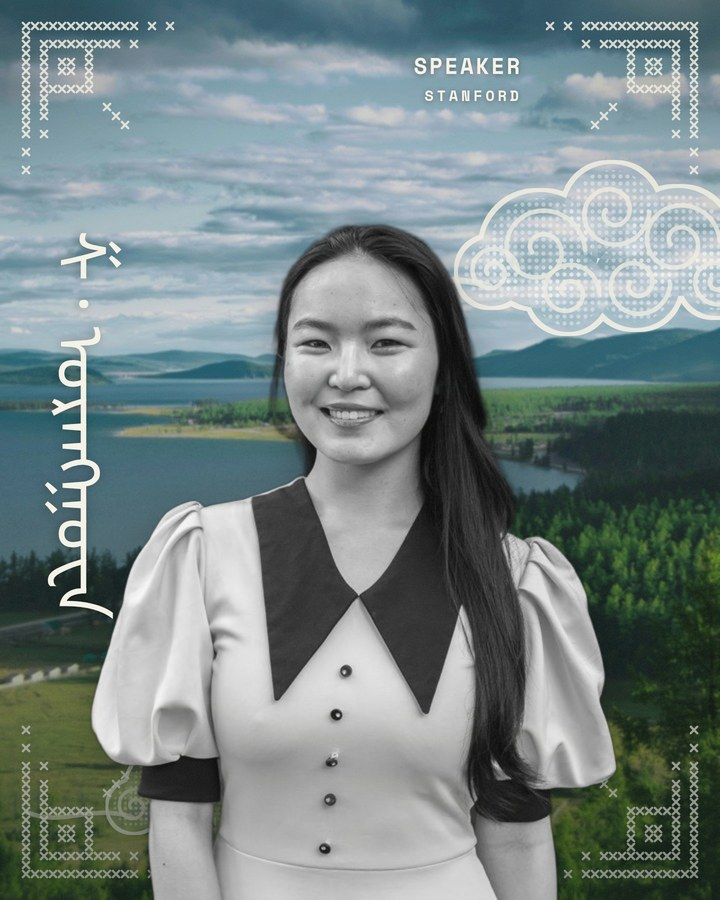
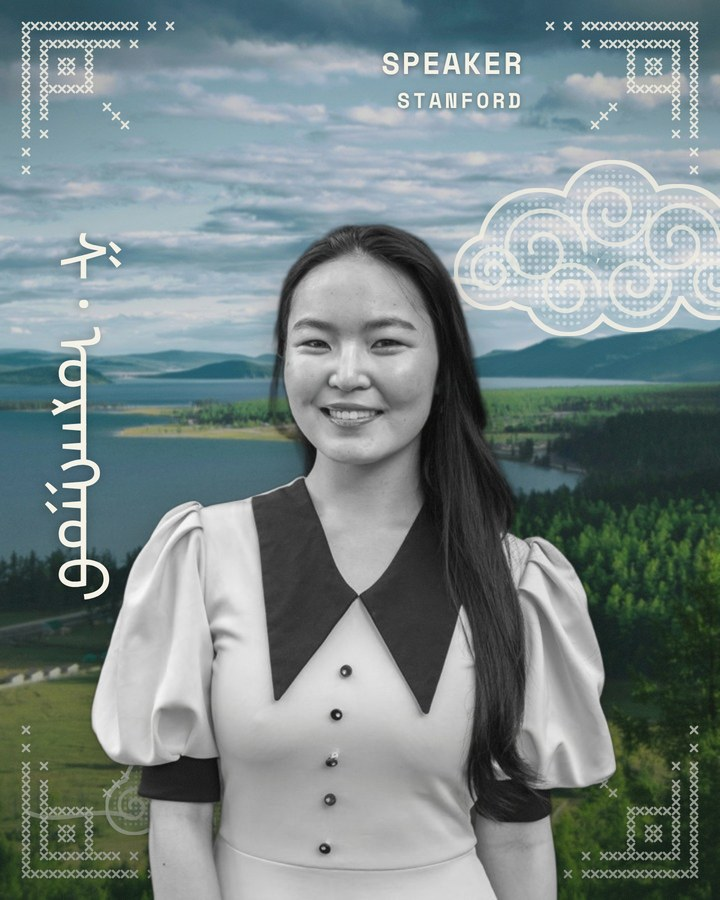
Fix Mongolian-script spellings (Bayarmangnai, Bayarm-a, Garudi, Urangoo); uniform role labels
Claude-Session: https://claude.ai/code/session_015w2YeaPuoH2UidzmstFP66

Changed region(s): [[0.5194, 0.0311, 0.7333, 0.1244], [0.0611, 0.6222, 0.1528, 0.6844]]

diff --git a/index.html b/index.html
@@ -278,7 +278,7 @@
       <div class="marquee speakers-row" data-reveal>
         <div class="speaker">
           <div class="speaker__photo">
-            <img src="assets/img/speaker-urangoo.jpg?v=2" alt="Urangoo Shinedelger" loading="lazy">
+            <img src="assets/img/speaker-urangoo.jpg?v=4" alt="Urangoo Shinedelger" loading="lazy">
             <span class="speaker__school"><img src="assets/img/schools/stanford.svg" alt="Stanford University"></span>
           </div>
           <p class="speaker__name">Urangoo Shinedelger</p>
@@ -286,7 +286,7 @@
         </div>
         <div class="speaker">
           <div class="speaker__photo">
-            <img src="assets/img/speaker-garid.jpg?v=2" alt="Garid Mendbayar" loading="lazy">
+            <img src="assets/img/speaker-garid.jpg?v=4" alt="Garid Mendbayar" loading="lazy">
             <span class="speaker__school"><img src="assets/img/schools/vanderbilt.png?v=3" alt="Vanderbilt University"></span>
           </div>
           <p class="speaker__name">Garid Mendbayar</p>
@@ -294,7 +294,7 @@
         </div>
         <div class="speaker">
           <div class="speaker__photo">
-            <img src="assets/img/speaker-bayarmaa.jpg?v=2" alt="Bayarmaa Altankhishig" loading="lazy">
+            <img src="assets/img/speaker-bayarmaa.jpg?v=4" alt="Bayarmaa Altankhishig" loading="lazy">
             <span class="speaker__school"><img src="assets/img/schools/bocconi.png" alt="Bocconi University"></span>
           </div>
           <p class="speaker__name">Bayarmaa Altankhishig</p>
@@ -302,7 +302,7 @@
         </div>
         <div class="speaker">
           <div class="speaker__photo">
-            <img src="assets/img/speaker-anar.jpg?v=3" alt="Anar Battogtokh" loading="lazy">
+            <img src="assets/img/speaker-anar.jpg?v=4" alt="Anar Battogtokh" loading="lazy">
             <span class="speaker__school"><img src="assets/img/schools/cornell.svg" alt="Cornell University"></span>
           </div>
           <p class="speaker__name">Anar Battogtokh</p>
@@ -310,7 +310,7 @@
         </div>
         <div class="speaker">
           <div class="speaker__photo">
-            <img src="assets/img/speaker-tsolmon.jpg?v=3" alt="Tsolmon Baasantsogt" loading="lazy">
+            <img src="assets/img/speaker-tsolmon.jpg?v=4" alt="Tsolmon Baasantsogt" loading="lazy">
             <span class="speaker__school"><img src="assets/img/schools/yonsei.png?v=2" alt="Yonsei University"></span>
           </div>
           <p class="speaker__name">Tsolmon Baasantsogt</p>
@@ -318,7 +318,7 @@
         </div>
         <div class="speaker">
           <div class="speaker__photo">
-            <img src="assets/img/speaker-tulga.jpg?v=2" alt="Tulga Bayarnyam" loading="lazy">
+            <img src="assets/img/speaker-tulga.jpg?v=4" alt="Tulga Bayarnyam" loading="lazy">
             <span class="speaker__school"><img src="assets/img/schools/skku.png?v=2" alt="Sungkyunkwan University"></span>
           </div>
           <p class="speaker__name">Tulga Bayarnyam</p>
@@ -326,7 +326,7 @@
         </div>
         <div class="speaker">
           <div class="speaker__photo">
-            <img src="assets/img/speaker-anu.jpg?v=2" alt="Anu Otgonjargal" loading="lazy">
+            <img src="assets/img/speaker-anu.jpg?v=4" alt="Anu Otgonjargal" loading="lazy">
             <span class="speaker__school speaker__school--fill"><img src="assets/img/schools/absolute.png" alt="Absolute School of English"></span>
           </div>
           <p class="speaker__name">Anu Otgonjargal</p>
@@ -342,7 +342,7 @@
       </div>
       <div class="marquee" data-reveal>
         <a class="member" href="member.html?m=bayarmagnai">
-          <div class="member__photo"><img src="assets/img/team-bayarmagnai.jpg?v=6" alt="Bayarmagnai Usukhgerel, Founder of GRIT" loading="lazy"></div>
+          <div class="member__photo"><img src="assets/img/team-bayarmagnai.jpg?v=7" alt="Bayarmagnai Usukhgerel, Founder of GRIT" loading="lazy"></div>
           <p class="member__name">Bayarmagnai Usukhgerel</p>
           <p class="member__school">Founder of GRIT</p>
         </a>

diff --git a/js/team.js b/js/team.js
@@ -4,7 +4,7 @@ const TEAM = {
   bayarmagnai: {
     name: "Bayarmagnai Usukhgerel",
     role: "Founder of GRIT",
-    photo: "assets/img/team-bayarmagnai.jpg?v=6",
+    photo: "assets/img/team-bayarmagnai.jpg?v=7",
     responsibilities: "Program lead: finance, organization, university application classes",
     bio: [],
   },
